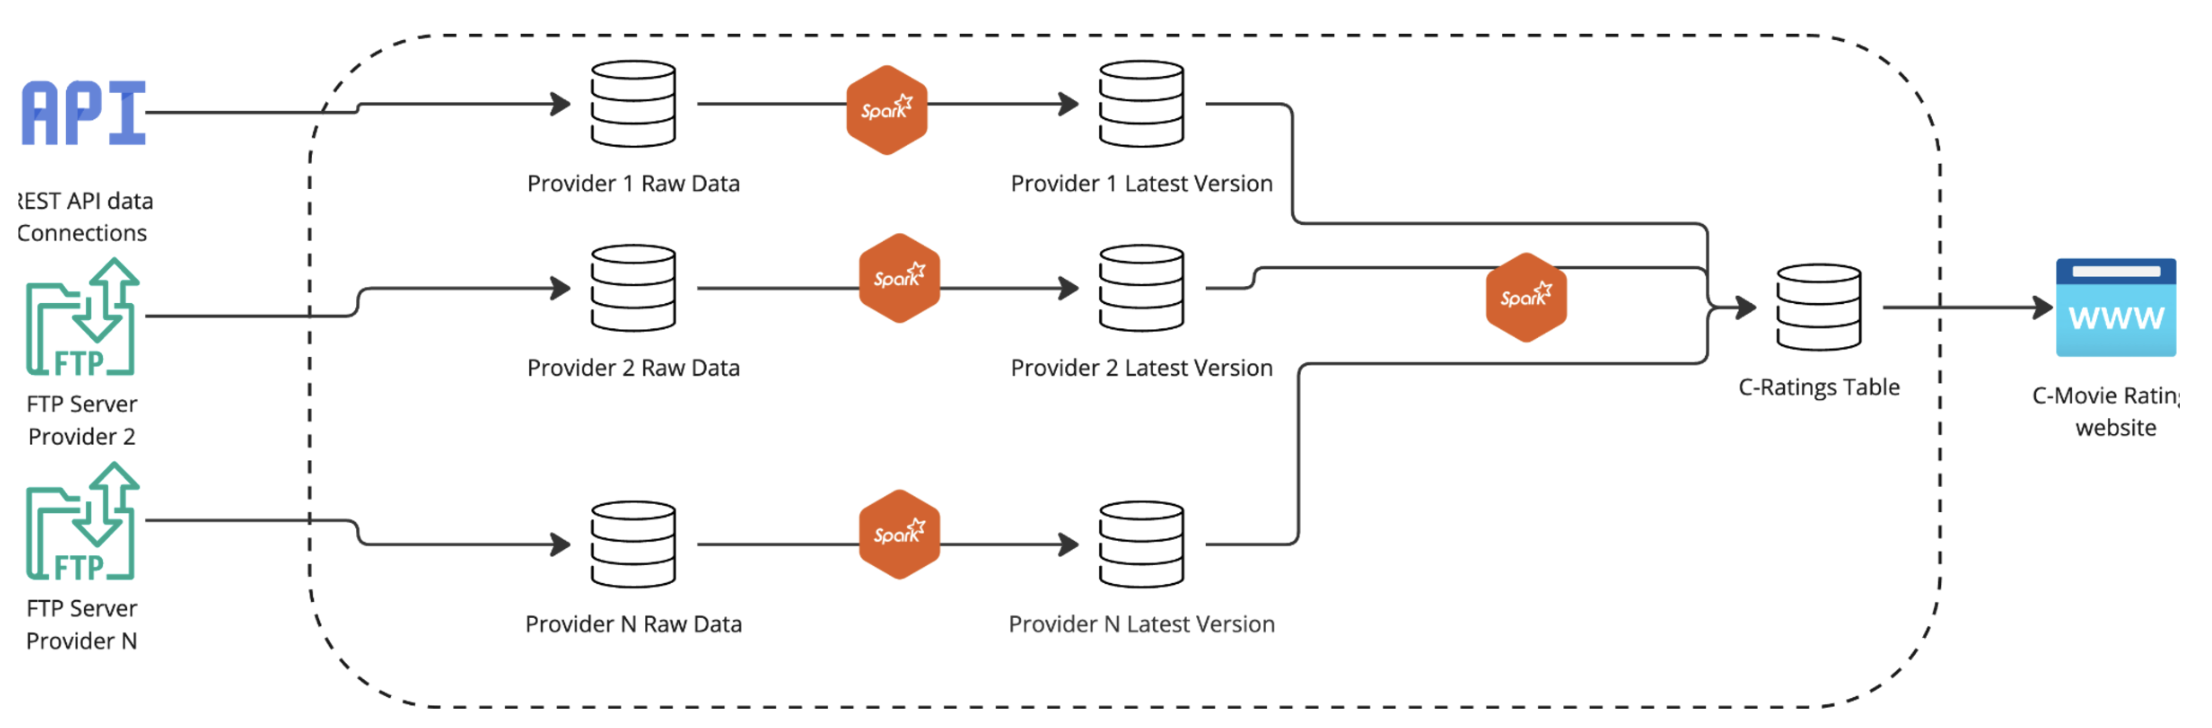
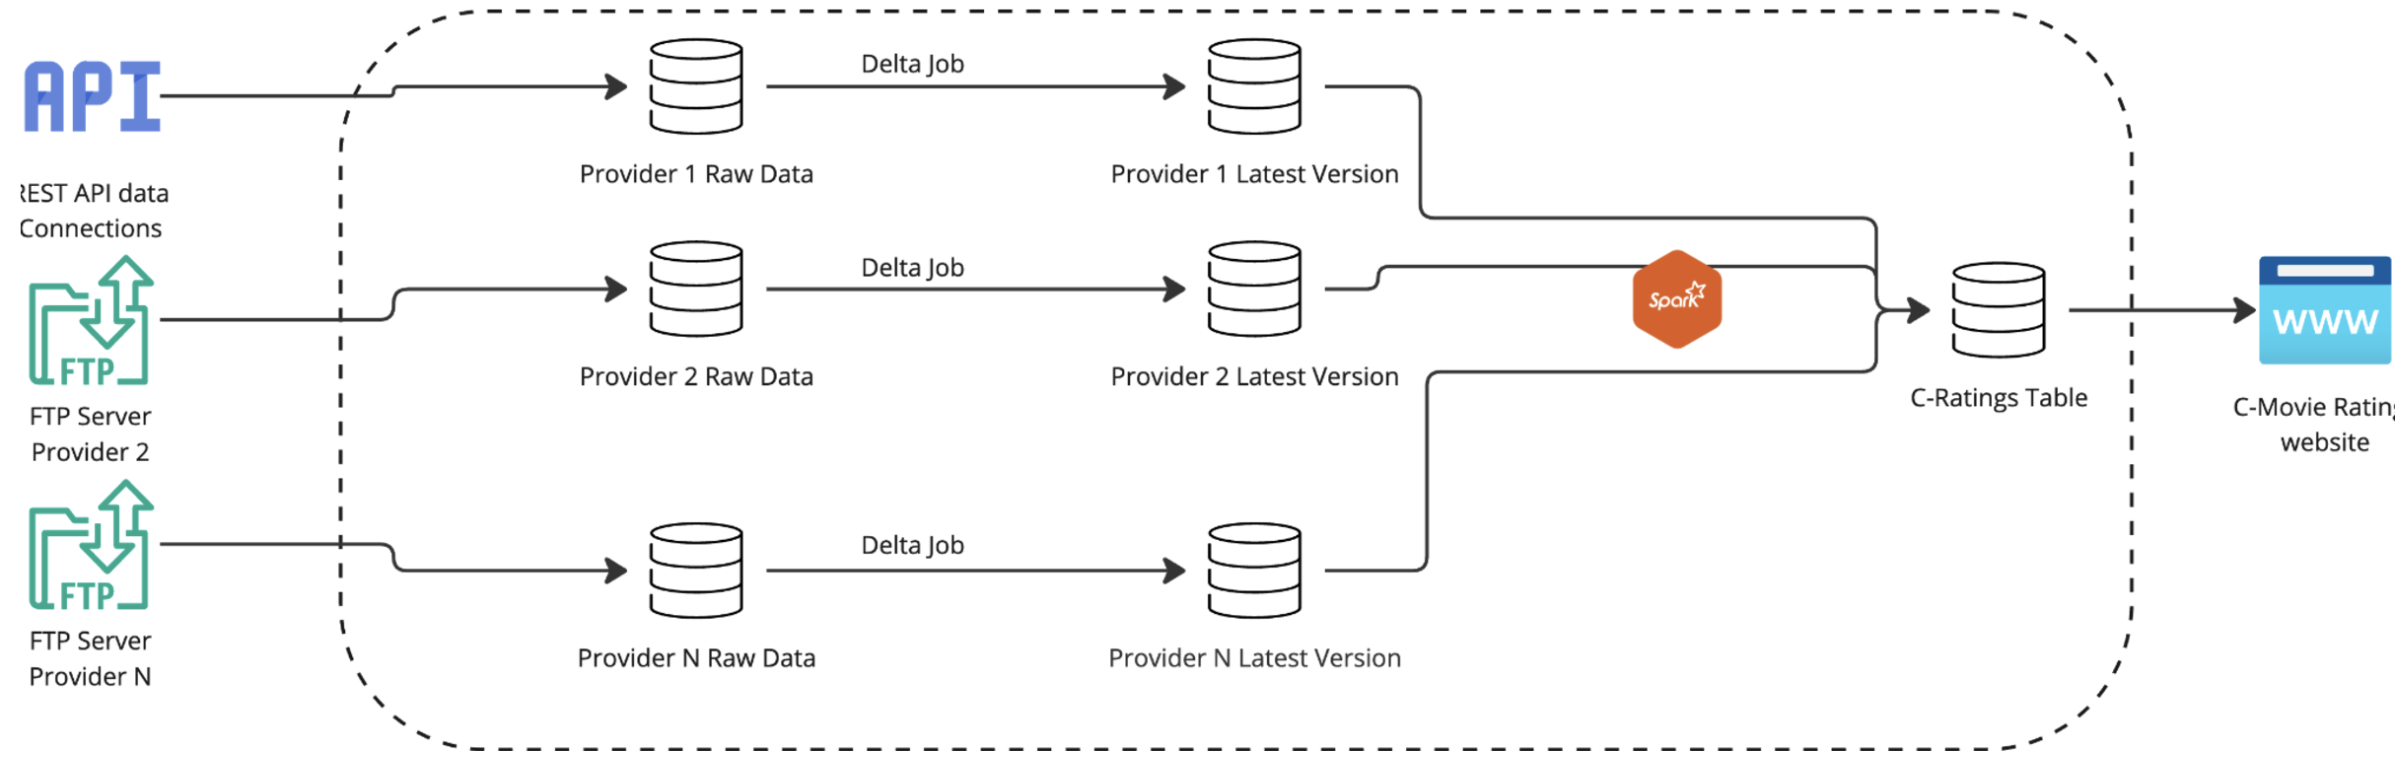
Update Architecture diagram

diff --git a/Readme.md b/Readme.md
@@ -12,7 +12,7 @@ Assumptions and constraints used in the solution.
 3. In order to get the web working, an initial load of historical data has to be performed. This means, the providers should specifically provide all the historical data to C-Movie’s technical team in order to create the initial database to start working. This historical data loads can be done through the same means, meaning that if a provider’s data is normally fetched through a REST API, historical data will be loaded from there, If data is taken from a FTP server, all the historical files should be there when the solution is run for the first time. Loading historical data of films is not a big deal since there is not a provider in existence with more than 1 million records currently (checked filmaffinity and IMDb, see in [Wikipedia](https://en.wikipedia.org/wiki/IMDb))
 This solution is platform and service agnostic. This means that there is no specific database, orchestration tool or cloud platform that will be mentioned here in order to preserve the possibility of implementing the solution anywhere and choosing this services or tools before (It is only needed to know conceptually what the tools involved in the design need to do)
 Original Data has to be persisted as is, this means, data will be fetched from the providers and stored as it is without further cleaning, modification, etc… So that reprocessing all the data is always possible from the first ingestion timestamp onwards. This will be the landing zone.
-4. It will be necessary to perform upserts on every different provider data. This means that film ratings are going to be constantly updated, maybe not for films produced before 1980, but modern films constantly receive new ratings and updates, so the workflow should be able to update the data belonging to a film that was originally ingested into C-Movie’s platform some time ago. A CDC framework is going to be used in order to do this UPSERTS/ UPDATES with no effort. This point is crucial in the design, for example, see here how IMDb updates their records daily https://datasets.imdbws.com/ The platform will have a directory specific per provider.
+4. It will be necessary to perform upserts on every different provider data. This means that film ratings are going to be constantly updated, maybe not for films produced before 1980, but modern films constantly receive new ratings and updates, so the workflow should be able to update the data belonging to a film that was originally ingested into C-Movie’s platform some time ago. A CDC framework is going to be used in order to do this UPSERTS/ UPDATES with little effort. This point is crucial in the design, for example, see here how IMDb updates their records daily https://datasets.imdbws.com/ The platform will have a directory specific per provider.
 
 ![IMDb Data Sample](IMDb_Data_Sample.png)
 
@@ -32,7 +32,7 @@ This is the functional workflow of the solution, this pipeline will be scheduled
 
 1. Data is fetched from the various different data sources and put into the platform. These processes can run on a scheduled mode or can be triggered. It doesn't really matter since  what is important is that every time the C-Rating calculator is run the latest data is available to be used. Therefore, the idea is to fetch all the data at the beginning of the pipeline in a parallel manner. The data fetched from every different provider will be stored as is in a bucket/ directory separated from the other providers. This functionality will be deployed on a serverless application that has scalable memory and compute power, so that it can process low and big amounts of data
 
-2. Data will be updated for every different provider. There will be 2 different buckets per provider, one with all the data as is and one with the data as the C-Rating calculator needs it. So, from the landing bucket to the usable bucket, an upsert spark job process will be performed using Apache Hudi or Apache Iceberg. This CDC framework allows the process to be very cost effective, since it only processes new data and does not read the full dataset in order to perform operations. For every film present in the new data, it will be a timestamp and the type of film it is (New Film = INSERT, Old Film = UPSERT and there is also the possibility to delete films, DELETE) All the records for every different provider will contain a last_updated timestamp column, this will allow the C-Rating Spark Job to know when to recalculate the ratings for a specific film or not, this way, a lot of time will be save in terms of doing calculations. The output fields will be homogeneous per provider, and these fields will be:
+2. Data will be updated for every different provider. There will be 2 different buckets per provider, one with all the data as is and one with the data as the C-Rating calculator needs it. The tools chosen in this step will depend on the actual amount of data, a simple pandas job that updates the specific locations of the affected rows could be sufficient if the process is low on memory and computational requirements (low amount of records) or a Spark CDC job using a delta framework as Apache Hudi or Apache Iceberg could be set up if the process requires more resources. This CDC framework allows the process to be very cost effective, since it only processes new data and does not read the full dataset in order to perform operations. For every film present in the new data, it will be a timestamp and the type of film it is (New Film = INSERT, Old Film = UPSERT and there is also the possibility to delete films, DELETE) All the records for every different provider will contain a last_updated timestamp column, this will allow the C-Rating Spark Job to know when to recalculate the ratings for a specific film or not, this way, a lot of time will be save in terms of doing calculations. The output fields will be homogeneous per provider, and these fields will be:
 
 ![Provider Tables](Provider_Tables.png)
 
